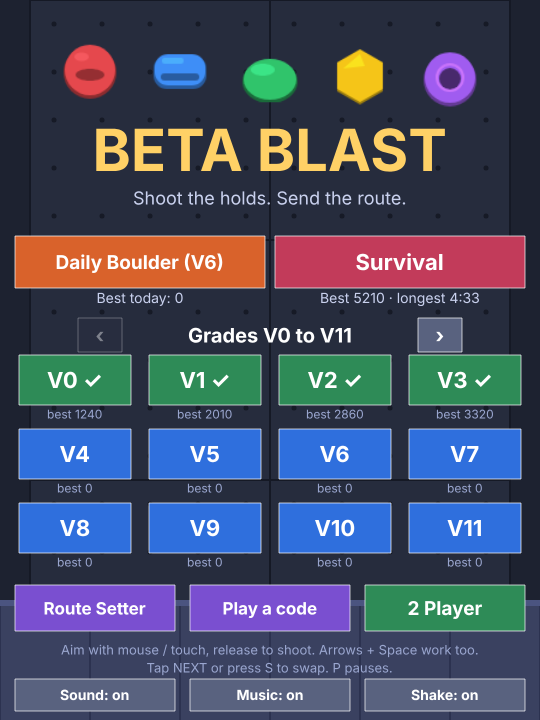
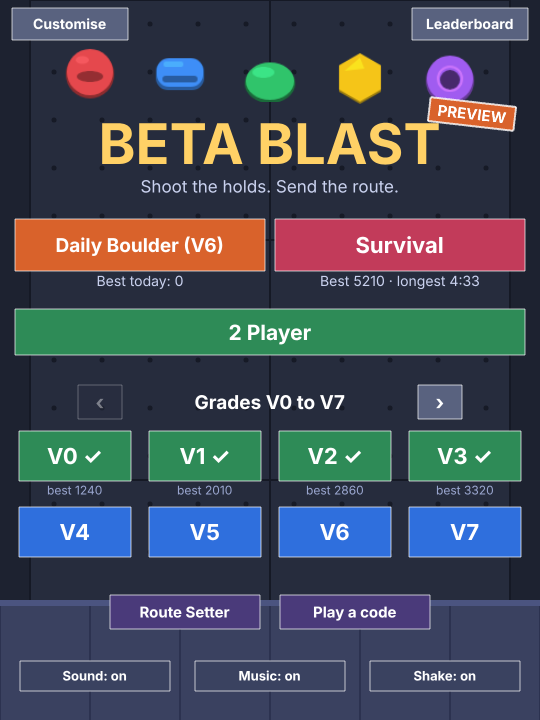
Say PREVIEW instead of BETA on the home screen
"Beta" means route information to climbers, so a BETA stamp on a game
called Beta Blast was confusing. Also refreshes the README menu screenshot.

Claude-Session: https://claude.ai/code/session_0177vdUkiav8F1CgPU7AkMxK

diff --git a/src/scenes/MenuScene.ts b/src/scenes/MenuScene.ts
@@ -24,7 +24,7 @@ export class MenuScene extends Phaser.Scene {
     }
     txt(this, WIDTH / 2, 144, 'BETA BLAST', 56, '#ffd166');
     txt(this, WIDTH / 2, 186, 'Shoot the holds. Send the route.', 17, '#c9d1ee', false);
-    this.betaBadge(466, 116);
+    this.previewStamp(472, 114);
 
     // The ways to play: two solo modes side by side, then the versus mode.
     const daily = dailyLevel();
@@ -78,11 +78,11 @@ export class MenuScene extends Phaser.Scene {
     this.input.once('pointerdown', unlockAudio);
   }
 
-  /** A tilted "BETA" stamp: the game is still being built. */
-  private betaBadge(x: number, y: number): void {
+  /** A tilted "PREVIEW" stamp: the game is still being built. ("Beta" means route information to climbers.) */
+  private previewStamp(x: number, y: number): void {
     const stamp = this.add.container(x, y).setAngle(10);
-    stamp.add(this.add.rectangle(0, 0, 58, 24, 0xd9622b).setStrokeStyle(2, 0xffffff, 0.8));
-    stamp.add(txt(this, 0, 0, 'BETA', 15));
+    stamp.add(this.add.rectangle(0, 0, 86, 24, 0xd9622b).setStrokeStyle(2, 0xffffff, 0.8));
+    stamp.add(txt(this, 0, 0, 'PREVIEW', 15));
     this.tweens.add({ targets: stamp, angle: 6, duration: 1400, yoyo: true, repeat: -1, ease: 'Sine.easeInOut' });
   }
 
